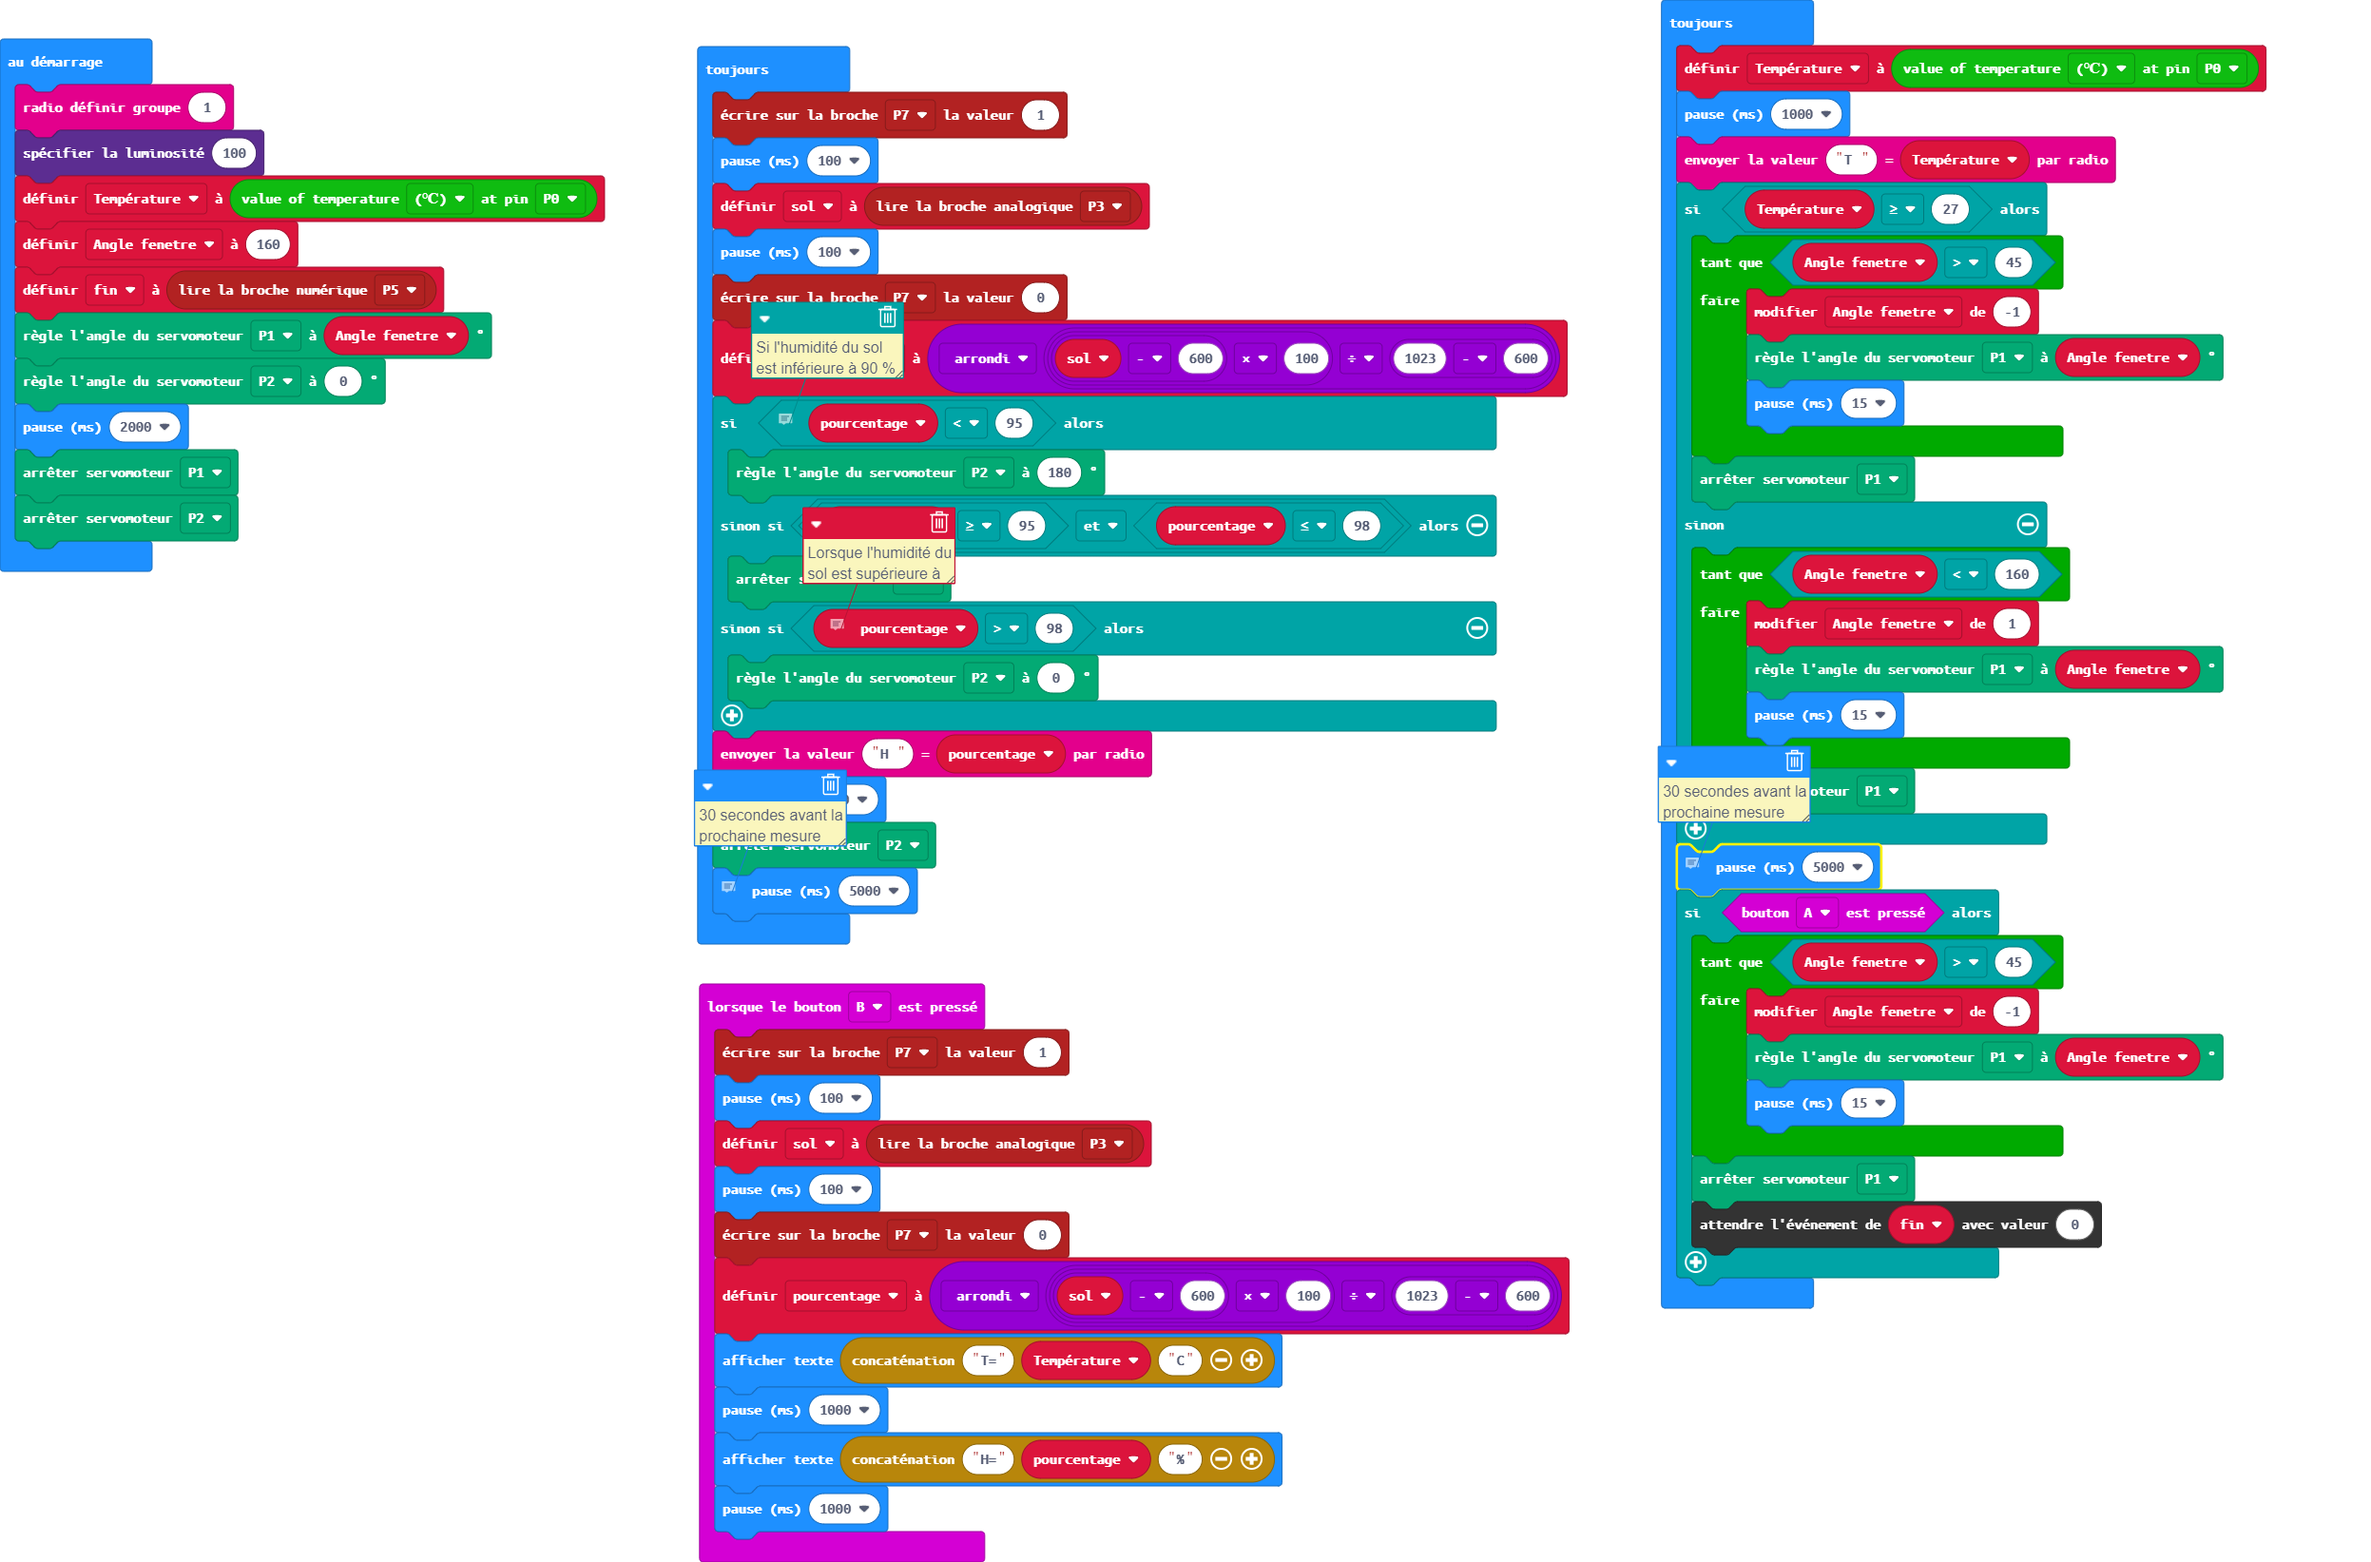
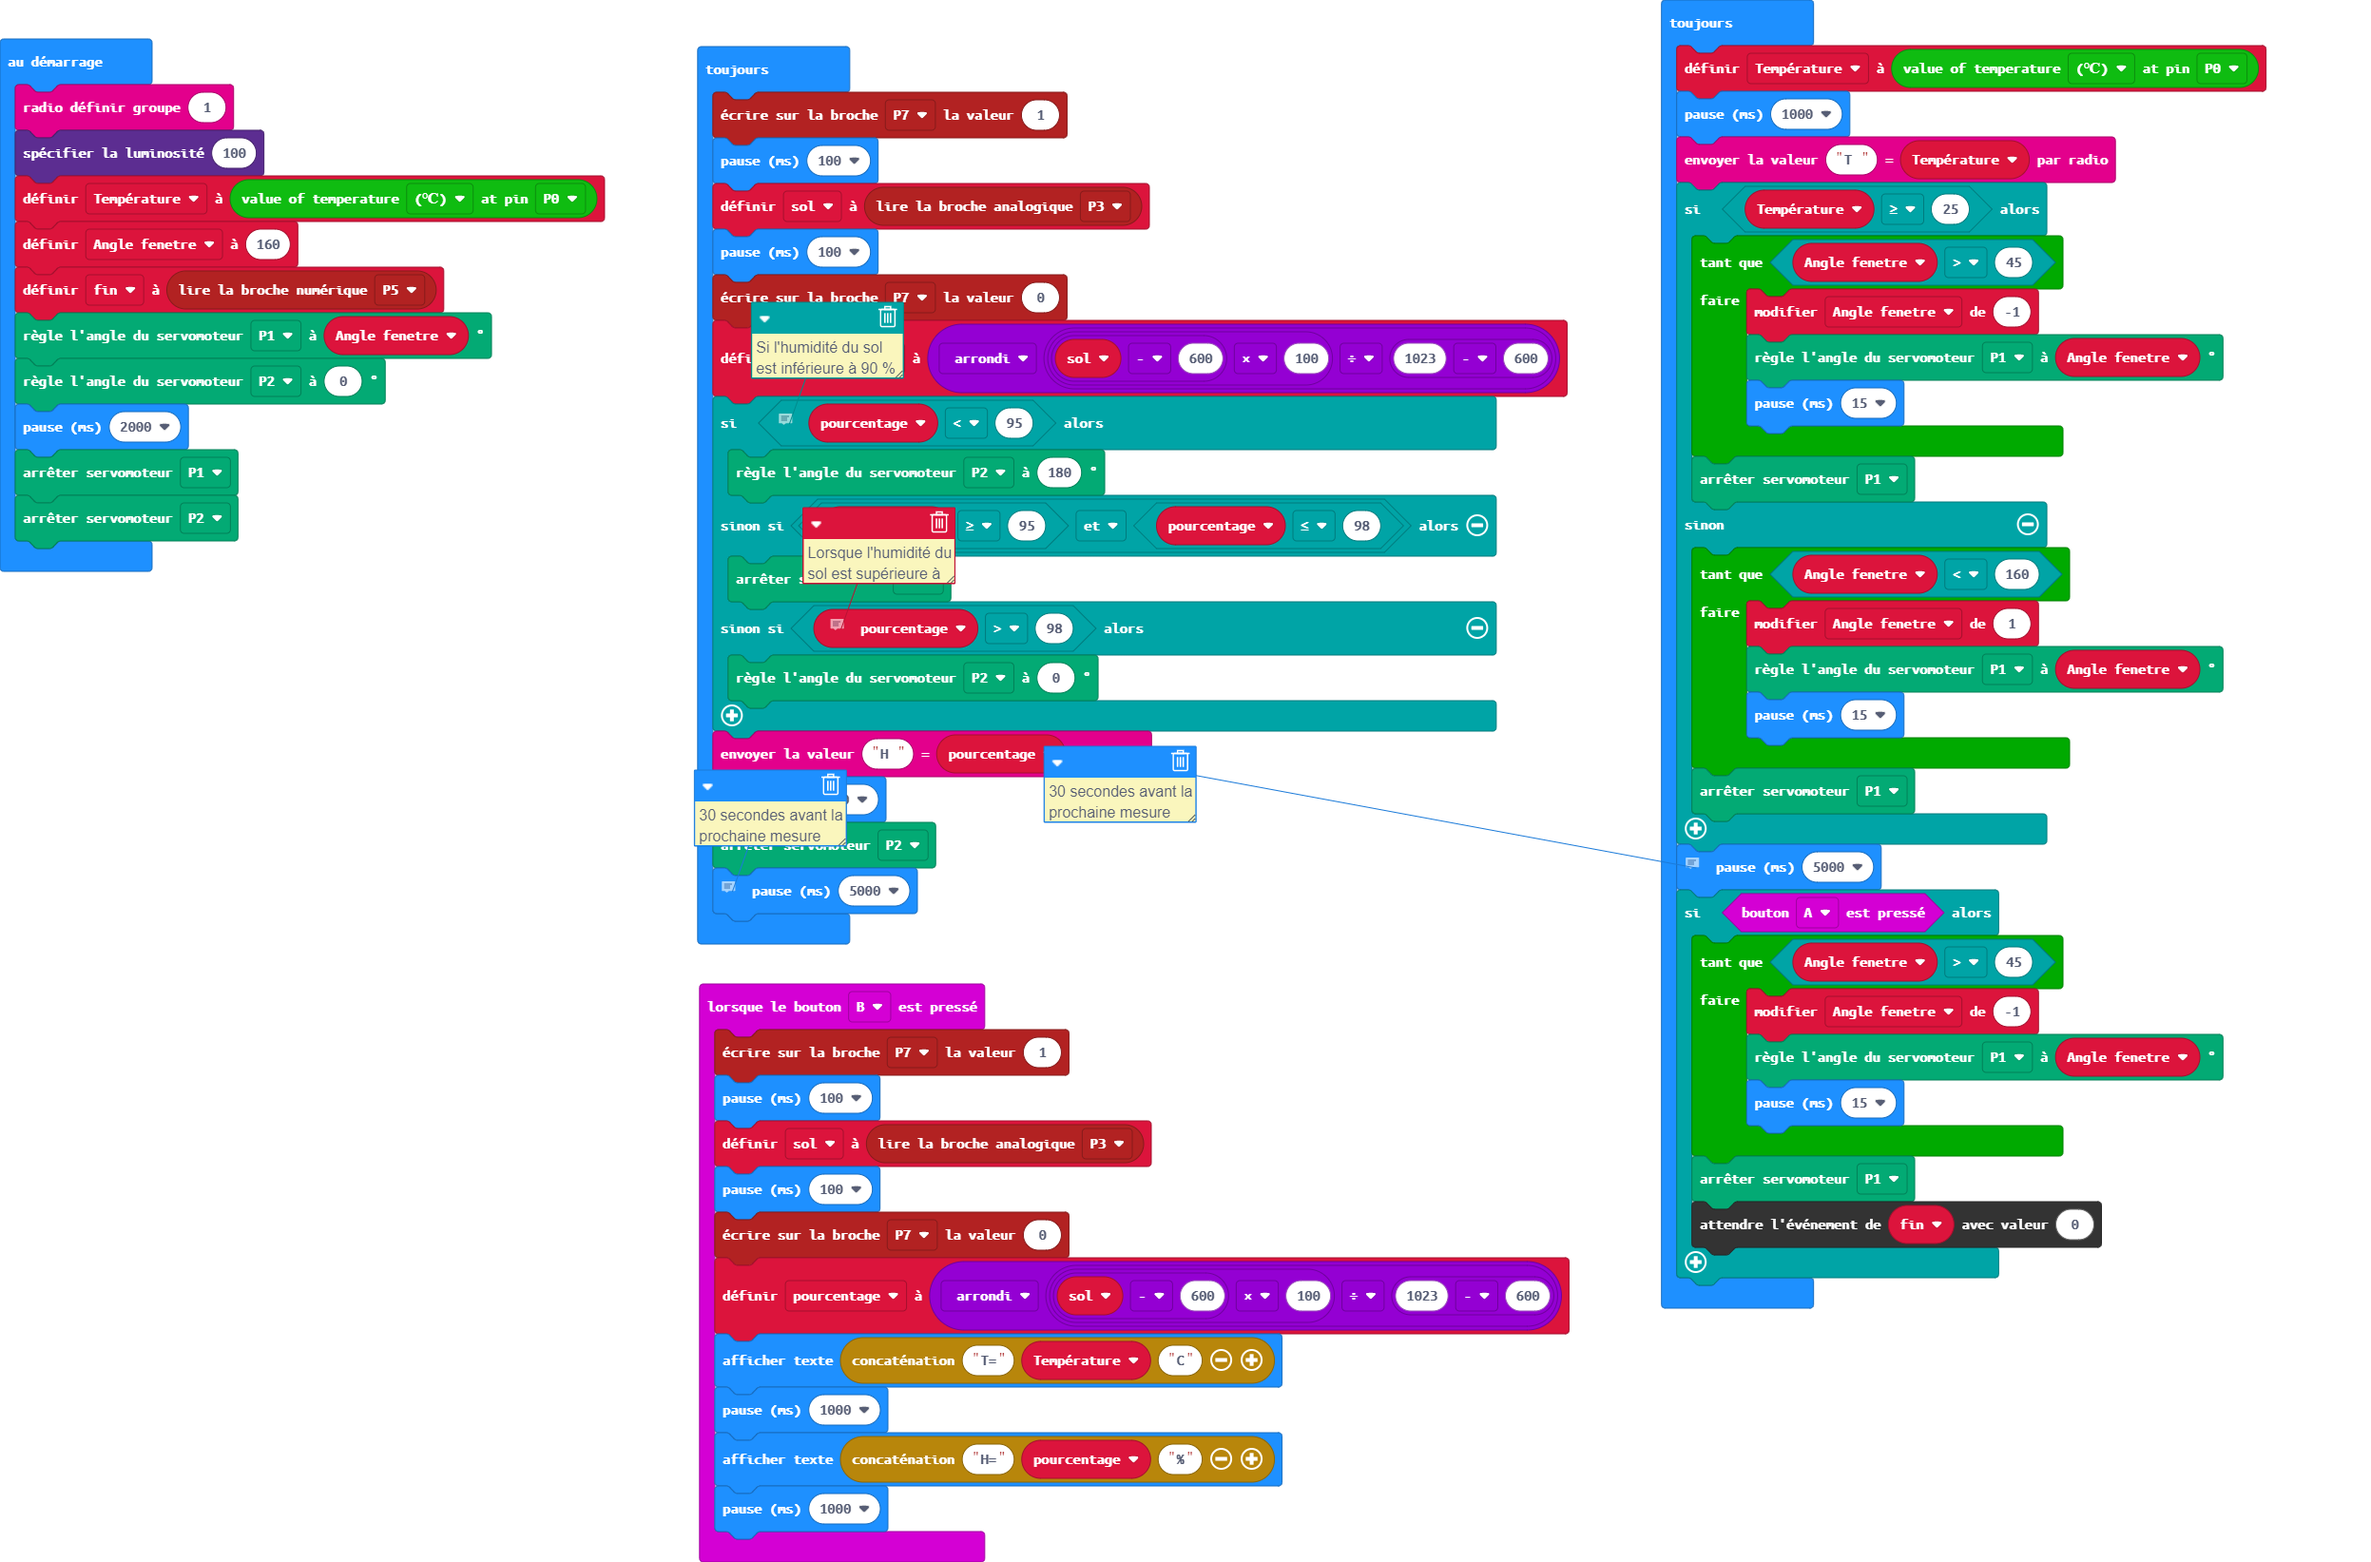
Mise à jour main.blocks, main.ts

Changed region(s): [[0.6792, 0.4656, 0.7719, 0.5277], [0.4322, 0.4656, 0.5249, 0.5277]]

diff --git a/main.ts b/main.ts
@@ -49,7 +49,7 @@ basic.forever(function () {
     Température = smarthome.ReadTemperature(TMP36Type.TMP36_temperature_C, AnalogPin.P0)
     basic.pause(1000)
     radio.sendValue("T ", Température)
-    if (Température >= 27) {
+    if (Température >= 25) {
         while (Angle_fenetre > 45) {
             Angle_fenetre += -1
             servos.P1.setAngle(Angle_fenetre)
